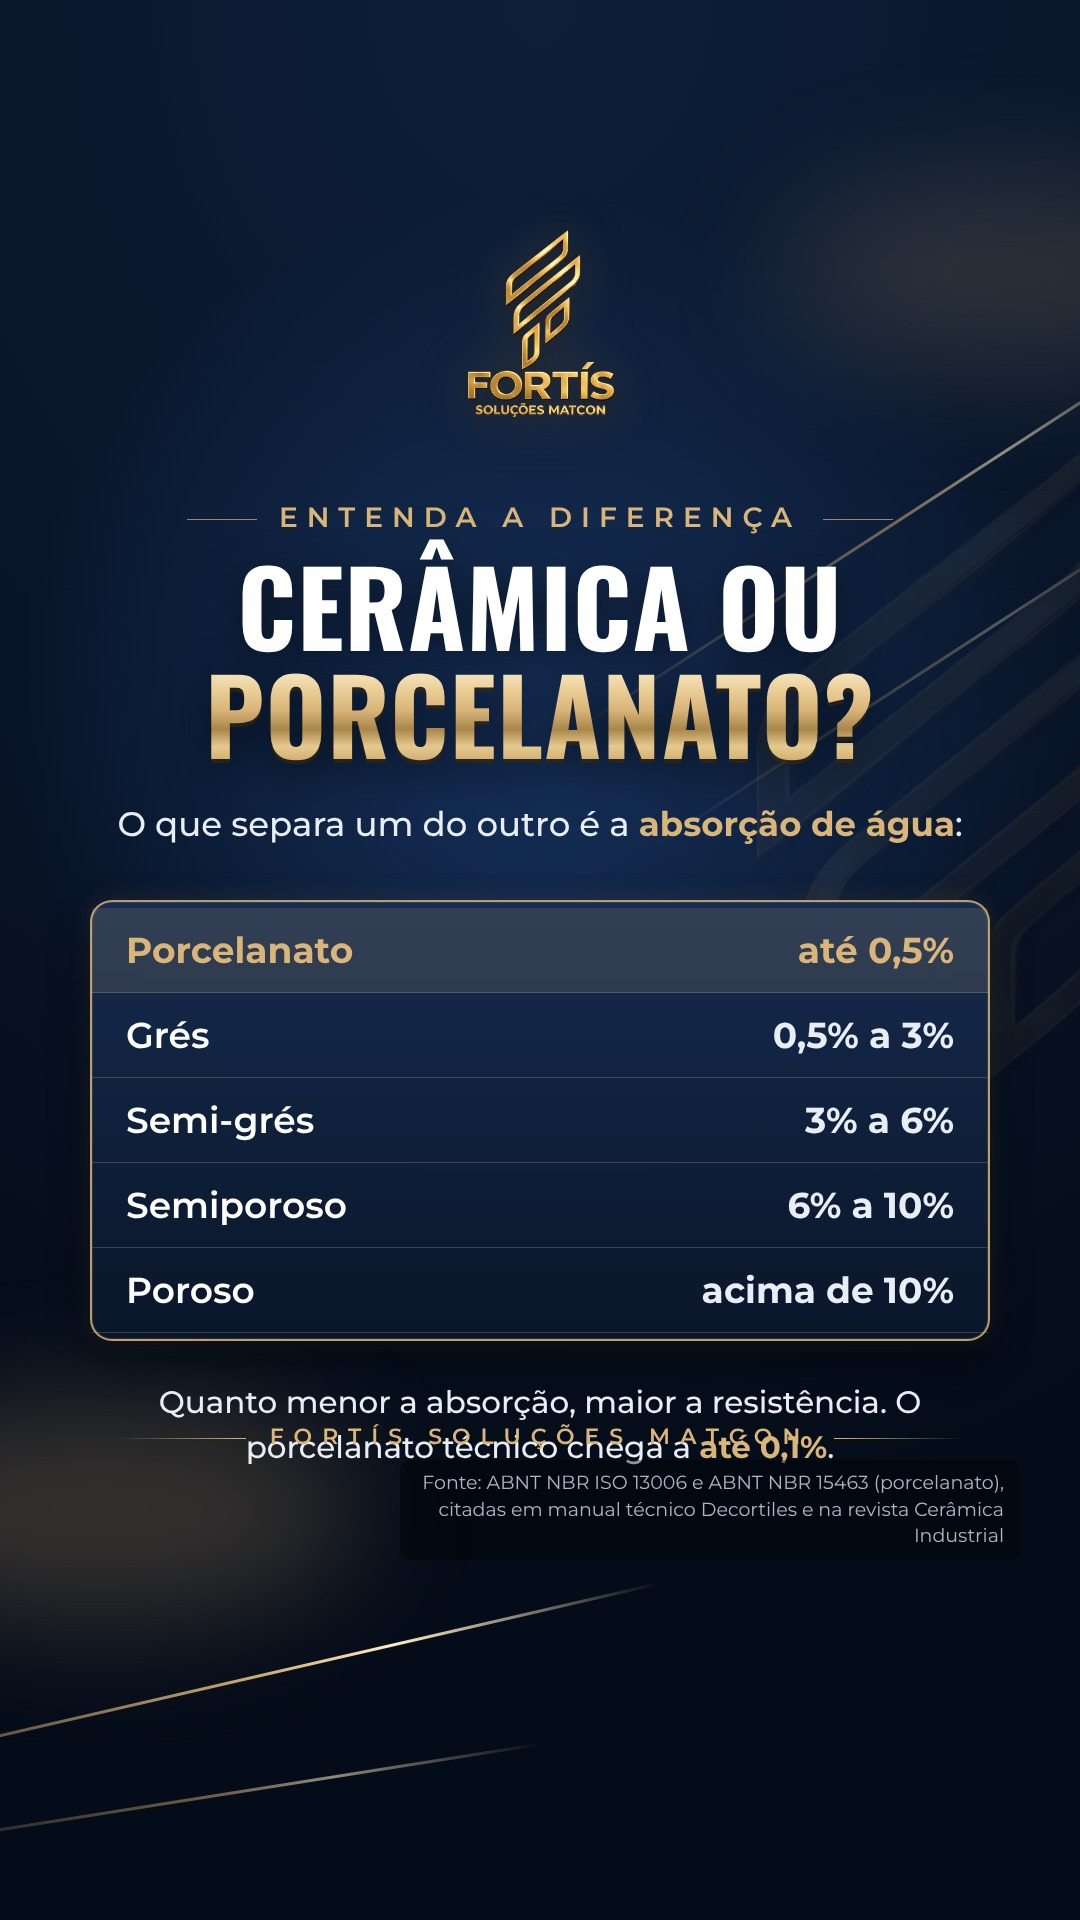
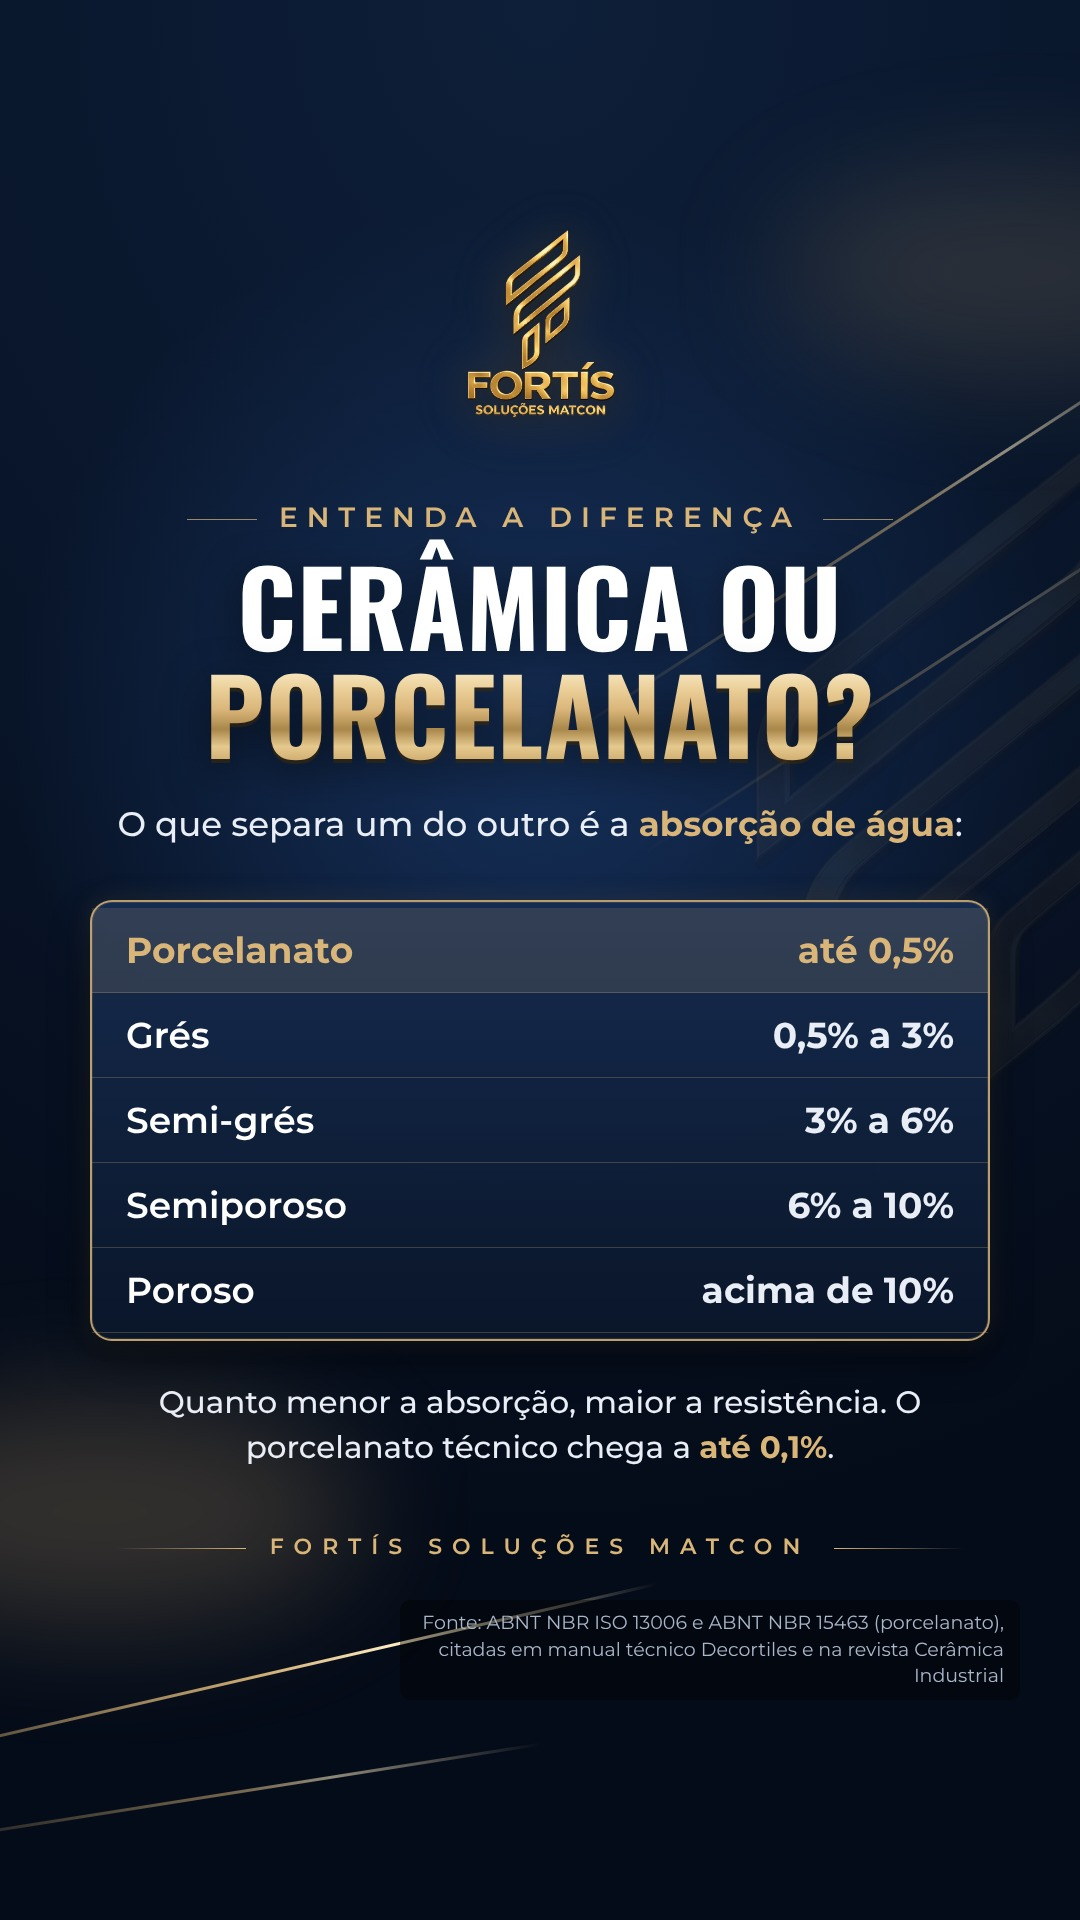
Corrige sobreposição do rodapé no modelo de story com fonte
Claude-Session: https://claude.ai/code/session_015GedZDBAbo5UXguL4xgzcd

diff --git a/gerador/especiais/relancamento-15-11.py b/gerador/especiais/relancamento-15-11.py
@@ -101,8 +101,8 @@ def story_porcelanato():
   <p class="sub" style="top:800px;left:90px;right:90px;font-size:34px">O que separa um do outro é a <b>absorção de água</b>:</p>
   <div class="card" style="position:absolute;top:900px;left:90px;right:90px;padding:6px 0;text-align:left">{tab}</div>
   <p class="sub" style="top:1380px;left:90px;right:90px;font-size:31px">Quanto menor a absorção, maior a resistência. O porcelanato técnico chega a <b>até 0,1%</b>.</p>
-  <div class="rodape" style="bottom:470px;font-size:22px">FORTÍS SOLUÇÕES MATCON</div>
-  <div style="{FONTE};bottom:360px">Fonte: ABNT NBR ISO 13006 e ABNT NBR 15463 (porcelanato), citadas em manual técnico Decortiles e na revista Cerâmica Industrial</div>''', .93)
+  <div class="rodape" style="bottom:360px;font-size:22px">FORTÍS SOLUÇÕES MATCON</div>
+  <div style="{FONTE};bottom:220px">Fonte: ABNT NBR ISO 13006 e ABNT NBR 15463 (porcelanato), citadas em manual técnico Decortiles e na revista Cerâmica Industrial</div>''', .93)
 
 def story_flow():
     itens = [("Falta avisada na hora", "O vendedor registra a ruptura no celular."),
